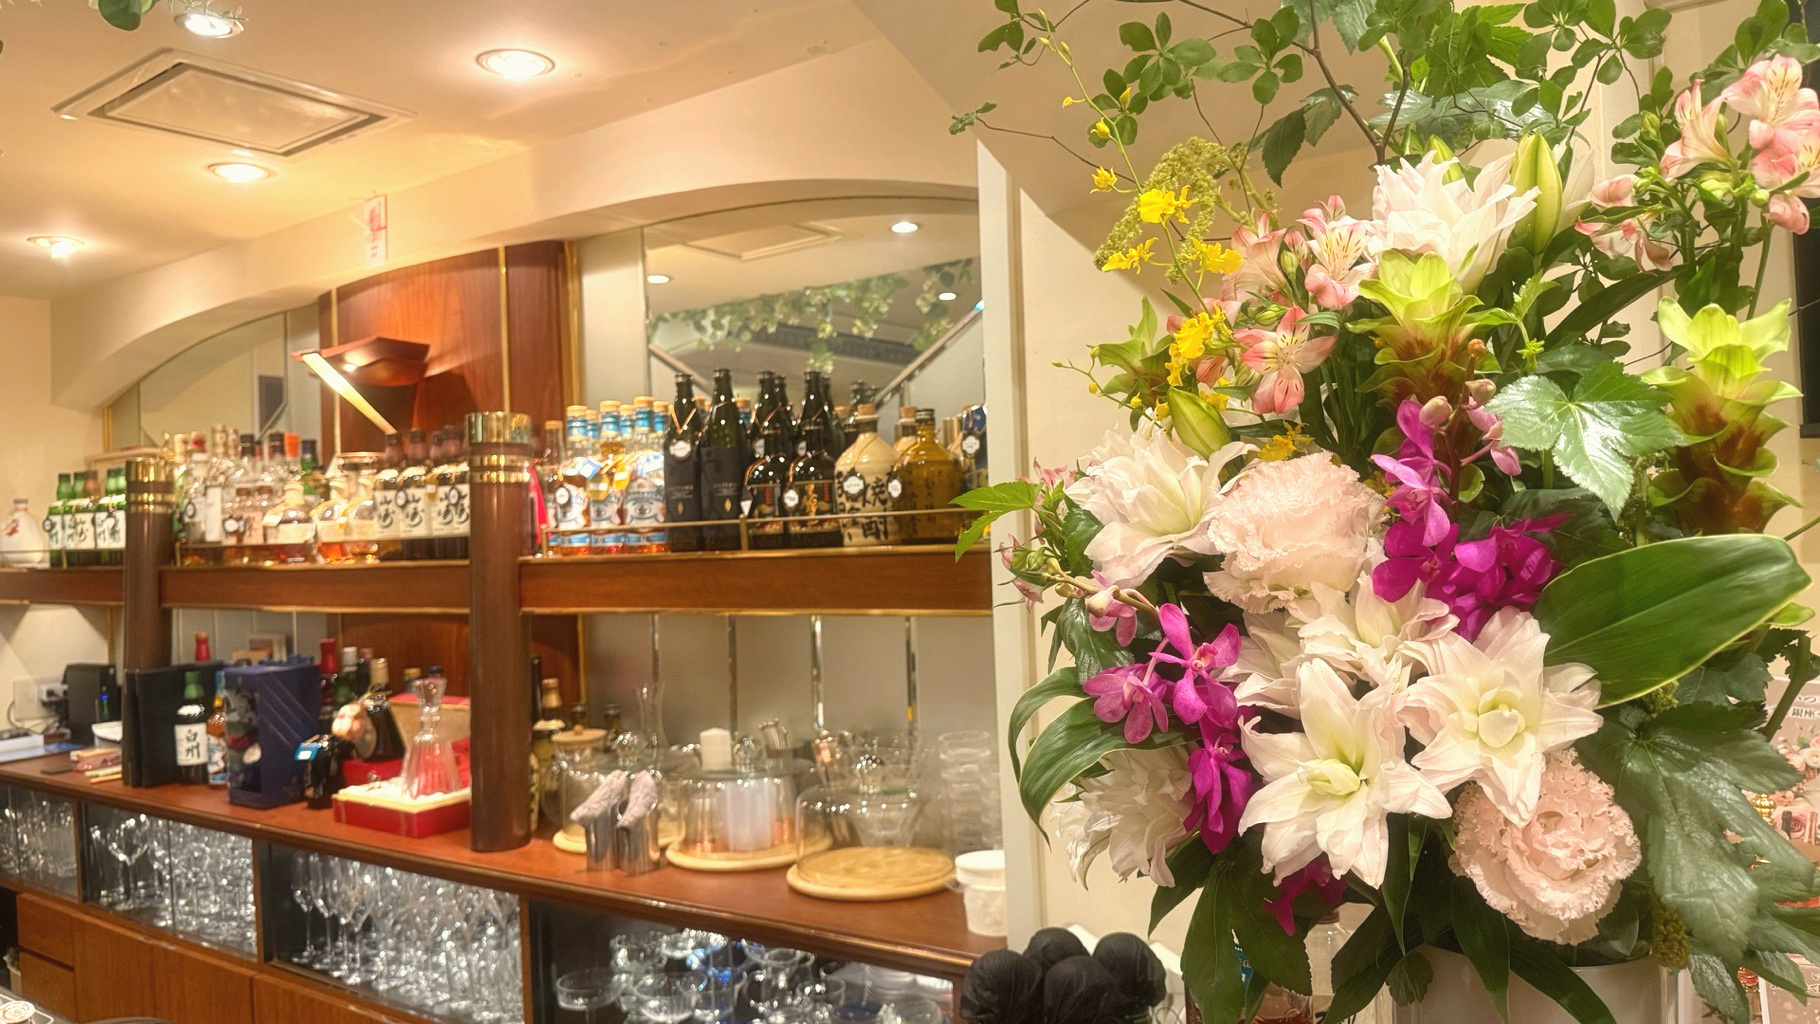
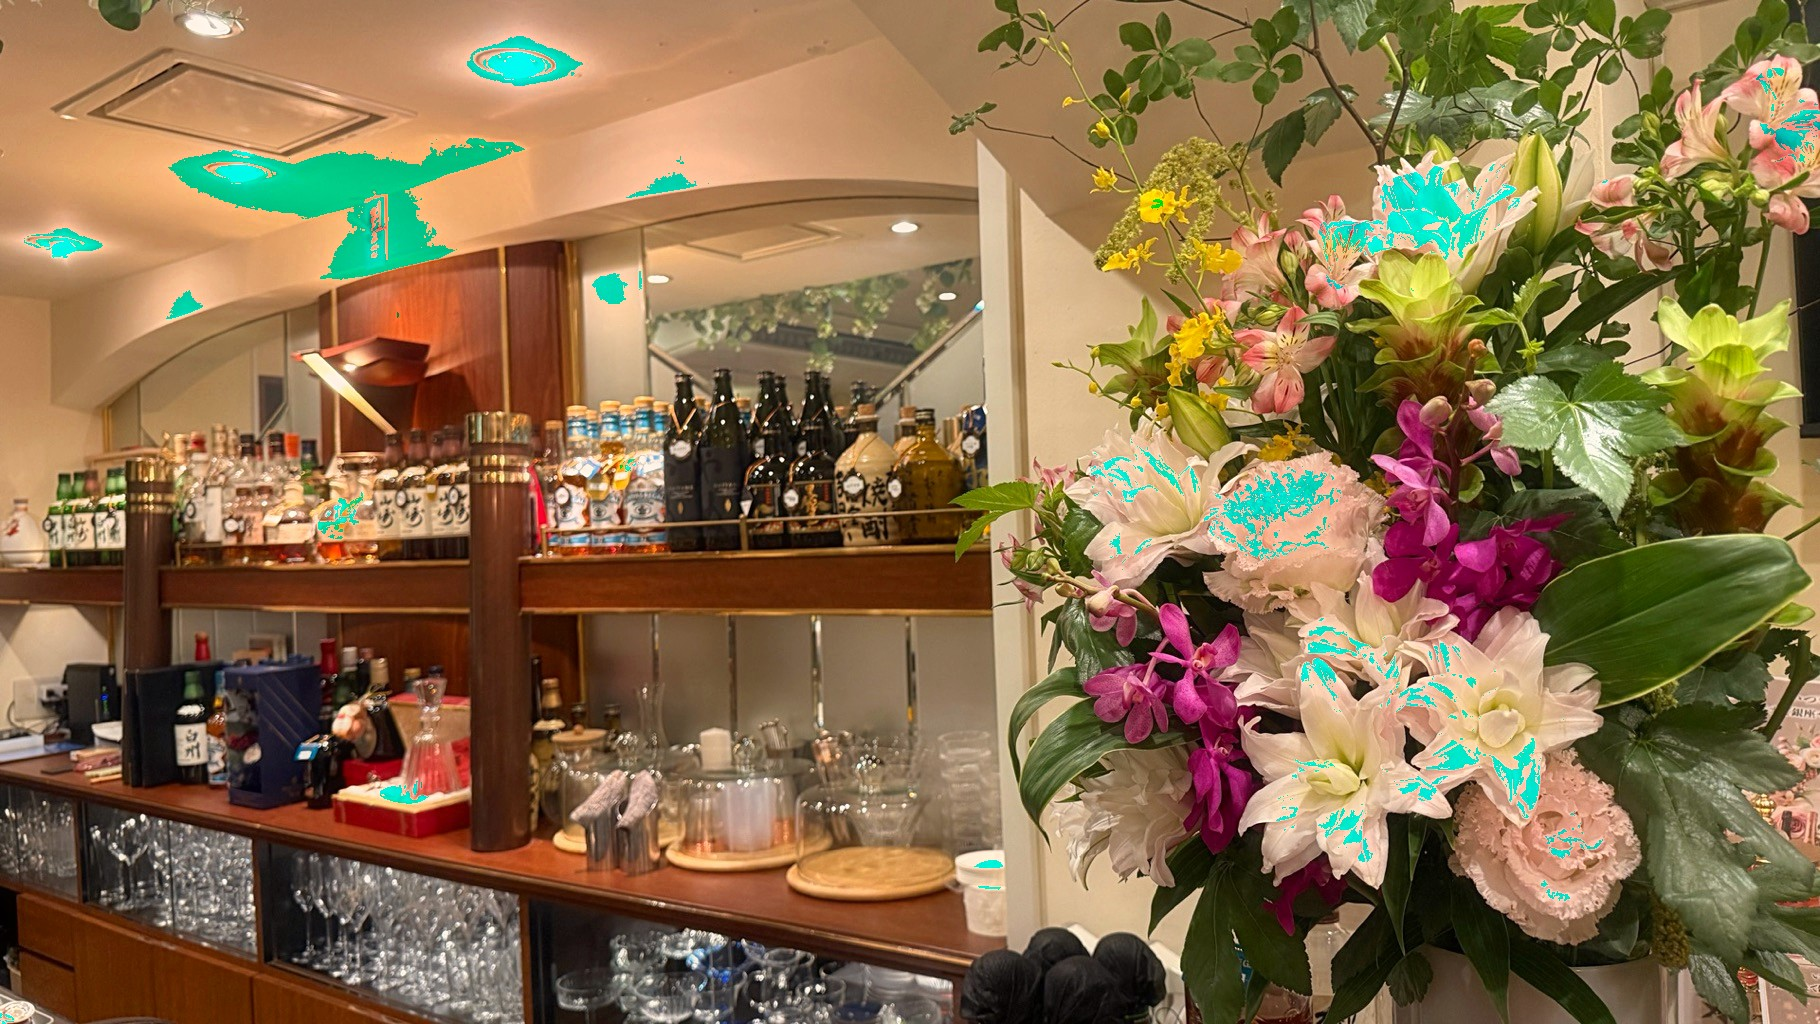
Add files via upload

diff --git a/templates/index.html b/templates/index.html
@@ -275,10 +275,8 @@
       <p class="seat-guide-note">メニュー以外のリクエストも、店頭にてお気軽にご相談ください。</p>
     </div>
     <div class="gallery-grid">
-      <!-- 📷 PH-04: カウンター席。座った目線でバックバーを正面に。横構図 -->
-      <div class="photo-slot" data-photo="counter" role="img" aria-label="カウンター（写真準備中）">
-        <div class="photo-slot-label">📷 PH-04 カウンター席<br><small>座った目線でバックバー正面／横構図</small></div>
-      </div>
+      <!-- カウンター席（バックバー正面・横構図） -->
+      <div class="photo-slot has-photo" data-photo="counter" role="img" aria-label="カウンター席" style="background-image:url('/static/img/counter.jpg');background-size:cover;background-position:center;"></div>
       <!-- 📷 PH-05: ボックス席・テーブル。グラスと照明を入れて雰囲気重視。横構図 -->
       <div class="photo-slot has-photo" data-photo="table" role="img" aria-label="奥ボックス席" style="background-image:url('/static/img/table.jpg');background-size:cover;background-position:center;"></div>
       <!-- 手前ボックス席 -->
@@ -322,7 +320,7 @@
       </div>
     </div>
     <div class="center" style="margin-top:36px;">
-      <a href="/order{% if request.args.get('preview') == '1' %}?preview=1{% endif %}" class="btn btn-ghost">全メニューは遠隔オーダーページでご覧いただけます</a>
+      <a href="/menu{% if request.args.get('preview') == '1' %}?preview=1{% endif %}" class="btn btn-ghost">全ボトルメニューはこちら</a>
     </div>
   </div>
 </section>

diff --git a/templates/base.html b/templates/base.html
@@ -73,6 +73,7 @@
       <a href="/{% if request.args.get('preview') == '1' %}?preview=1{% endif %}#system">料金システム</a>
       <a href="/#first-visit">初めての方へ</a>
       <a href="/{% if request.args.get('preview') == '1' %}?preview=1{% endif %}#menu">メニュー</a>
+      <a href="/menu{% if request.args.get('preview') == '1' %}?preview=1{% endif %}">ボトル一覧</a>
       <a href="/{% if request.args.get('preview') == '1' %}?preview=1{% endif %}#staff">スタッフ</a>
       <a href="/{% if request.args.get('preview') == '1' %}?preview=1{% endif %}#access">アクセス</a>
       <a href="/recruit">採用情報</a>
@@ -112,6 +113,7 @@
     </div>
     <div class="footer-nav">
       <a href="/{% if request.args.get('preview') == '1' %}?preview=1{% endif %}#concept">コンセプト</a>
+      <a href="/menu{% if request.args.get('preview') == '1' %}?preview=1{% endif %}">ボトルメニュー</a>
       <a href="/order{% if request.args.get('preview') == '1' %}?preview=1{% endif %}">遠隔オーダー</a>
       <a href="/recruit{% if request.args.get('preview') == '1' %}?preview=1{% endif %}">採用情報</a>
       <a href="/{% if request.args.get('preview') == '1' %}?preview=1{% endif %}#access">アクセス</a>
